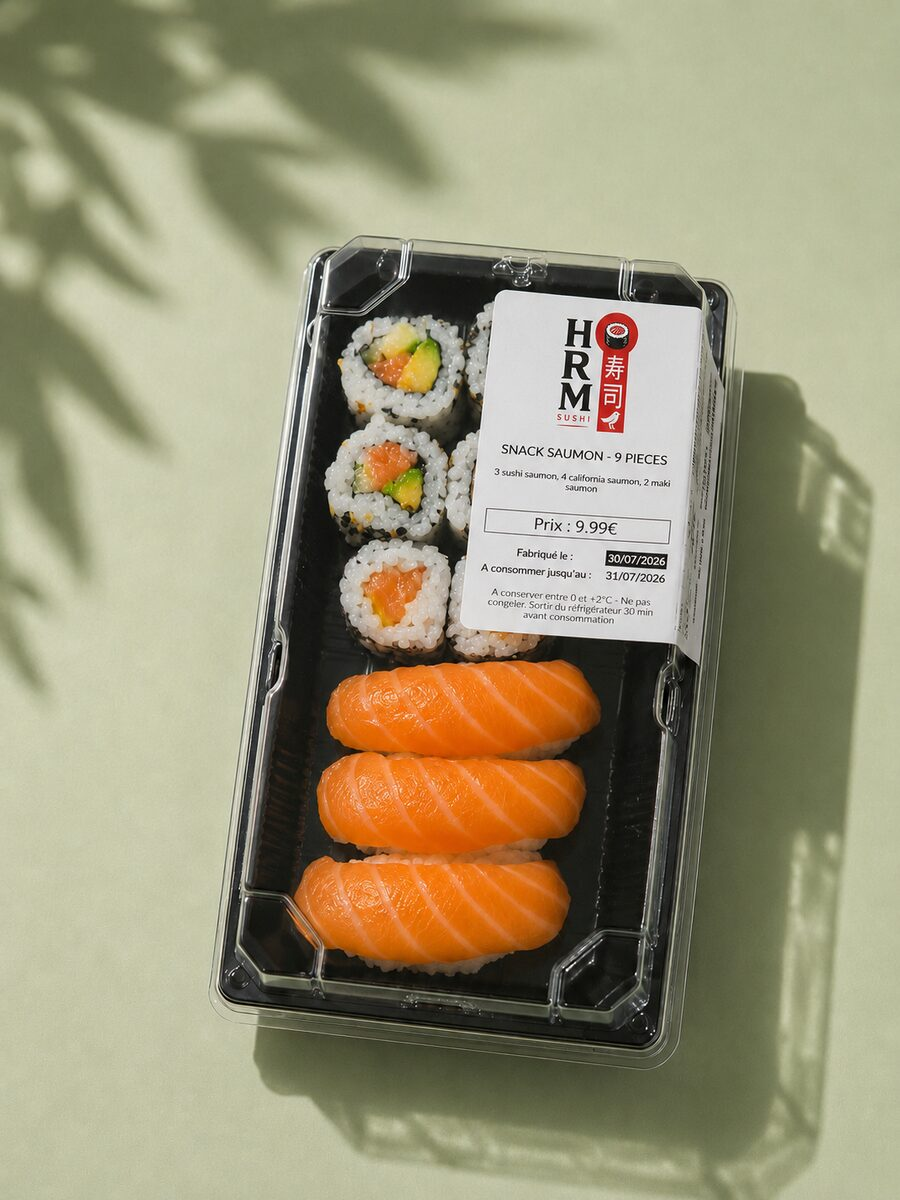
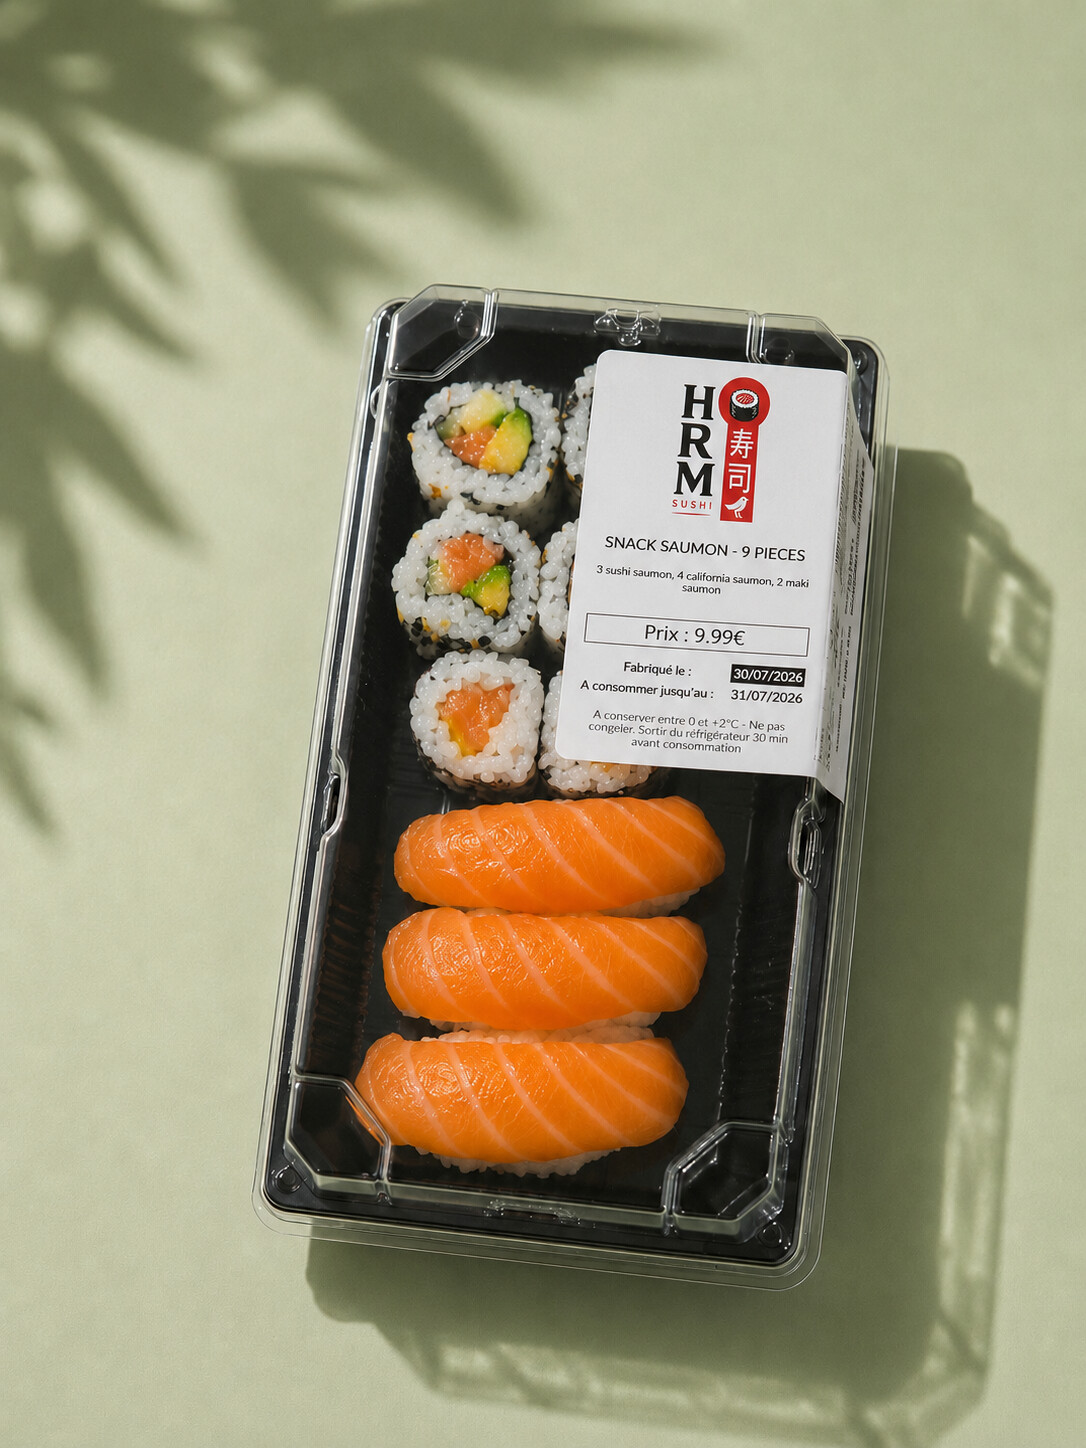
Agrandit la fiche produit et ameliore la qualite des photos

Changed region(s): [[0.6222, 0.2775, 0.7156, 0.37], [0.6844, 0.4625, 0.7467, 0.4933], [0.56, 0.37, 0.5911, 0.4008]]

diff --git a/components/product-dialog.tsx b/components/product-dialog.tsx
@@ -47,7 +47,7 @@ export function ProductDialog({
       onClick={onClose}
     >
       <div
-        className="relative w-full max-w-lg overflow-hidden rounded-t-2xl bg-paper sm:rounded-sm"
+        className="relative w-full max-w-2xl overflow-hidden rounded-t-2xl bg-paper sm:rounded-sm"
         onClick={(e) => e.stopPropagation()}
       >
         <button
@@ -64,12 +64,14 @@ export function ProductDialog({
             src={image || '/placeholder.svg'}
             alt={imageAlt}
             fill
-            sizes="(min-width: 640px) 512px, 100vw"
+            sizes="(min-width: 640px) 700px, 100vw"
+            quality={95}
+            priority
             className="object-cover"
           />
         </div>
 
-        <div className="max-h-[45vh] overflow-y-auto px-6 py-6 sm:max-h-none">
+        <div className="max-h-[45vh] overflow-y-auto px-6 py-6 sm:max-h-none sm:px-8 sm:py-8">
           {product.format ? (
             <p className="text-xs font-semibold uppercase tracking-[0.2em] text-brand">
               {product.format}
@@ -78,18 +80,18 @@ export function ProductDialog({
 
           <h3
             id="product-dialog-title"
-            className="mt-1 font-serif text-xl font-black uppercase tracking-tight text-ink sm:text-2xl"
+            className="mt-1 font-serif text-2xl font-black uppercase tracking-tight text-ink sm:text-3xl"
           >
             {product.name}
           </h3>
 
           {product.composition ? (
-            <p className="mt-4 text-sm leading-relaxed text-muted-foreground">
+            <p className="mt-4 text-sm leading-relaxed text-muted-foreground sm:text-base">
               {product.composition}
             </p>
           ) : null}
 
-          <p className="mt-6 font-mono text-lg font-semibold tabular-nums text-brand">
+          <p className="mt-6 font-mono text-lg font-semibold tabular-nums text-brand sm:text-xl">
             {product.price}
           </p>
         </div>
